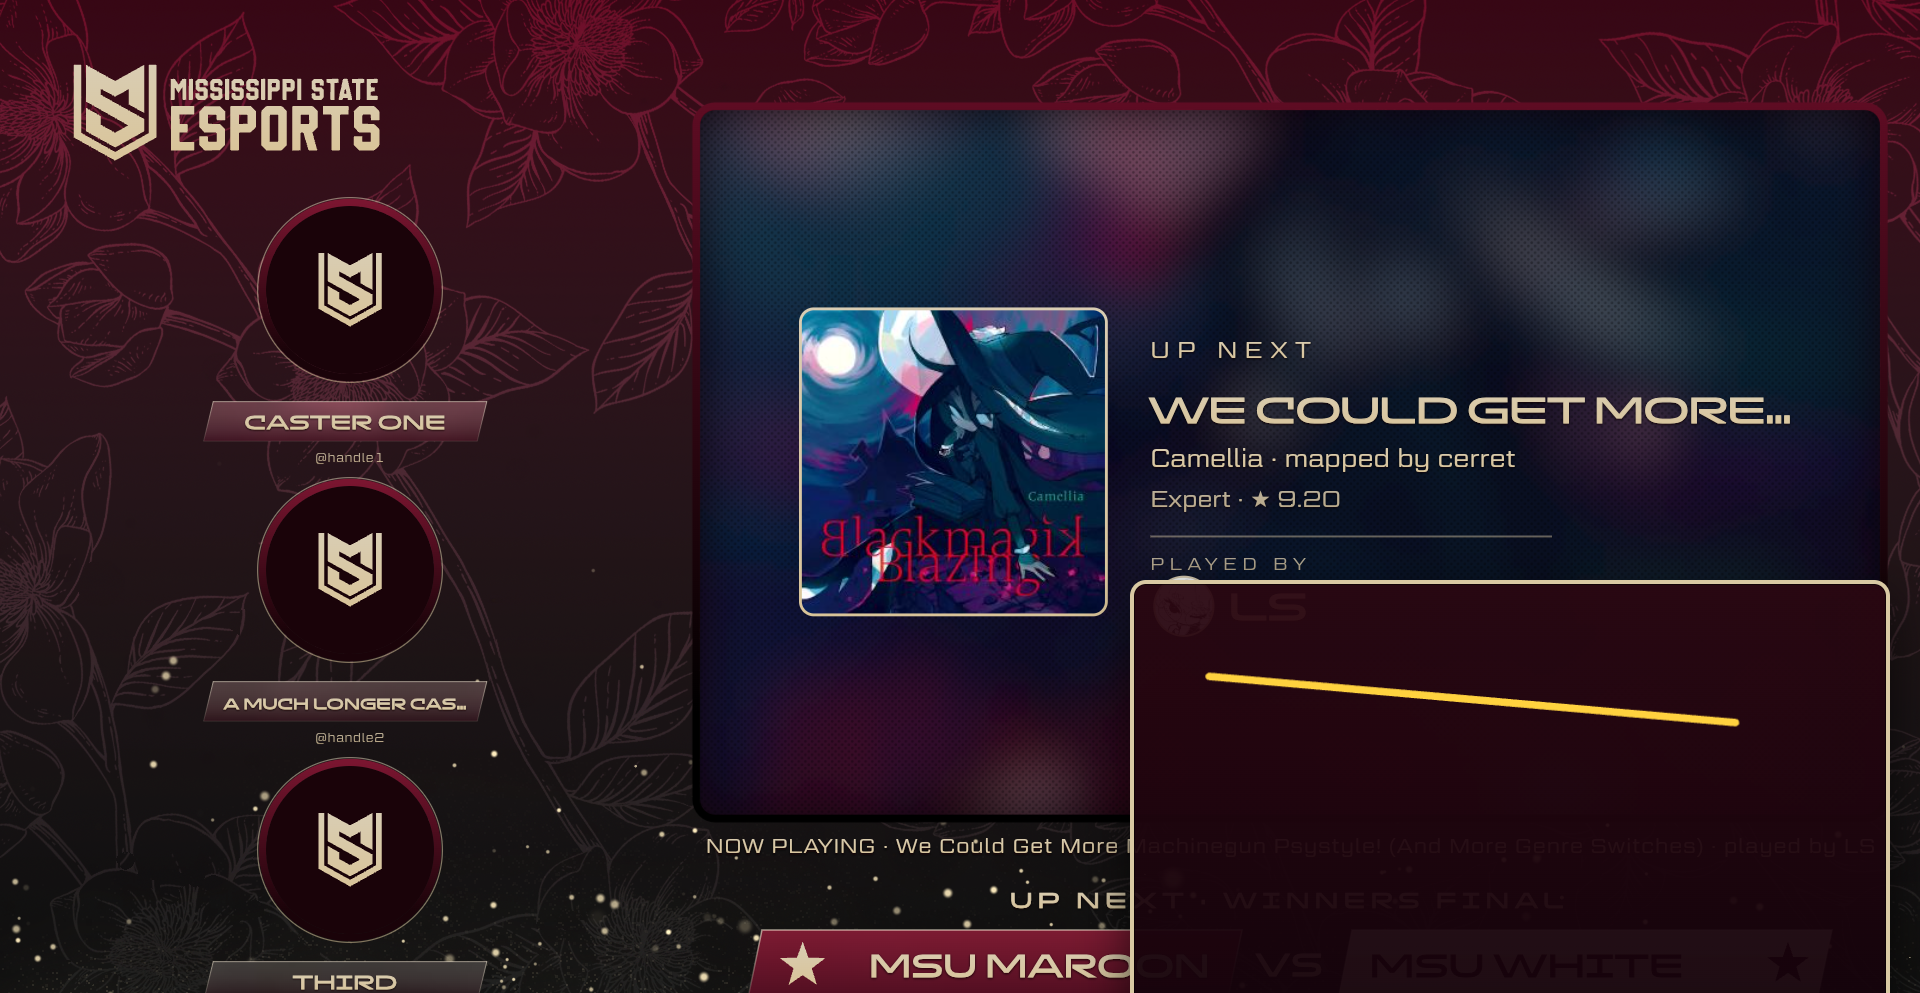
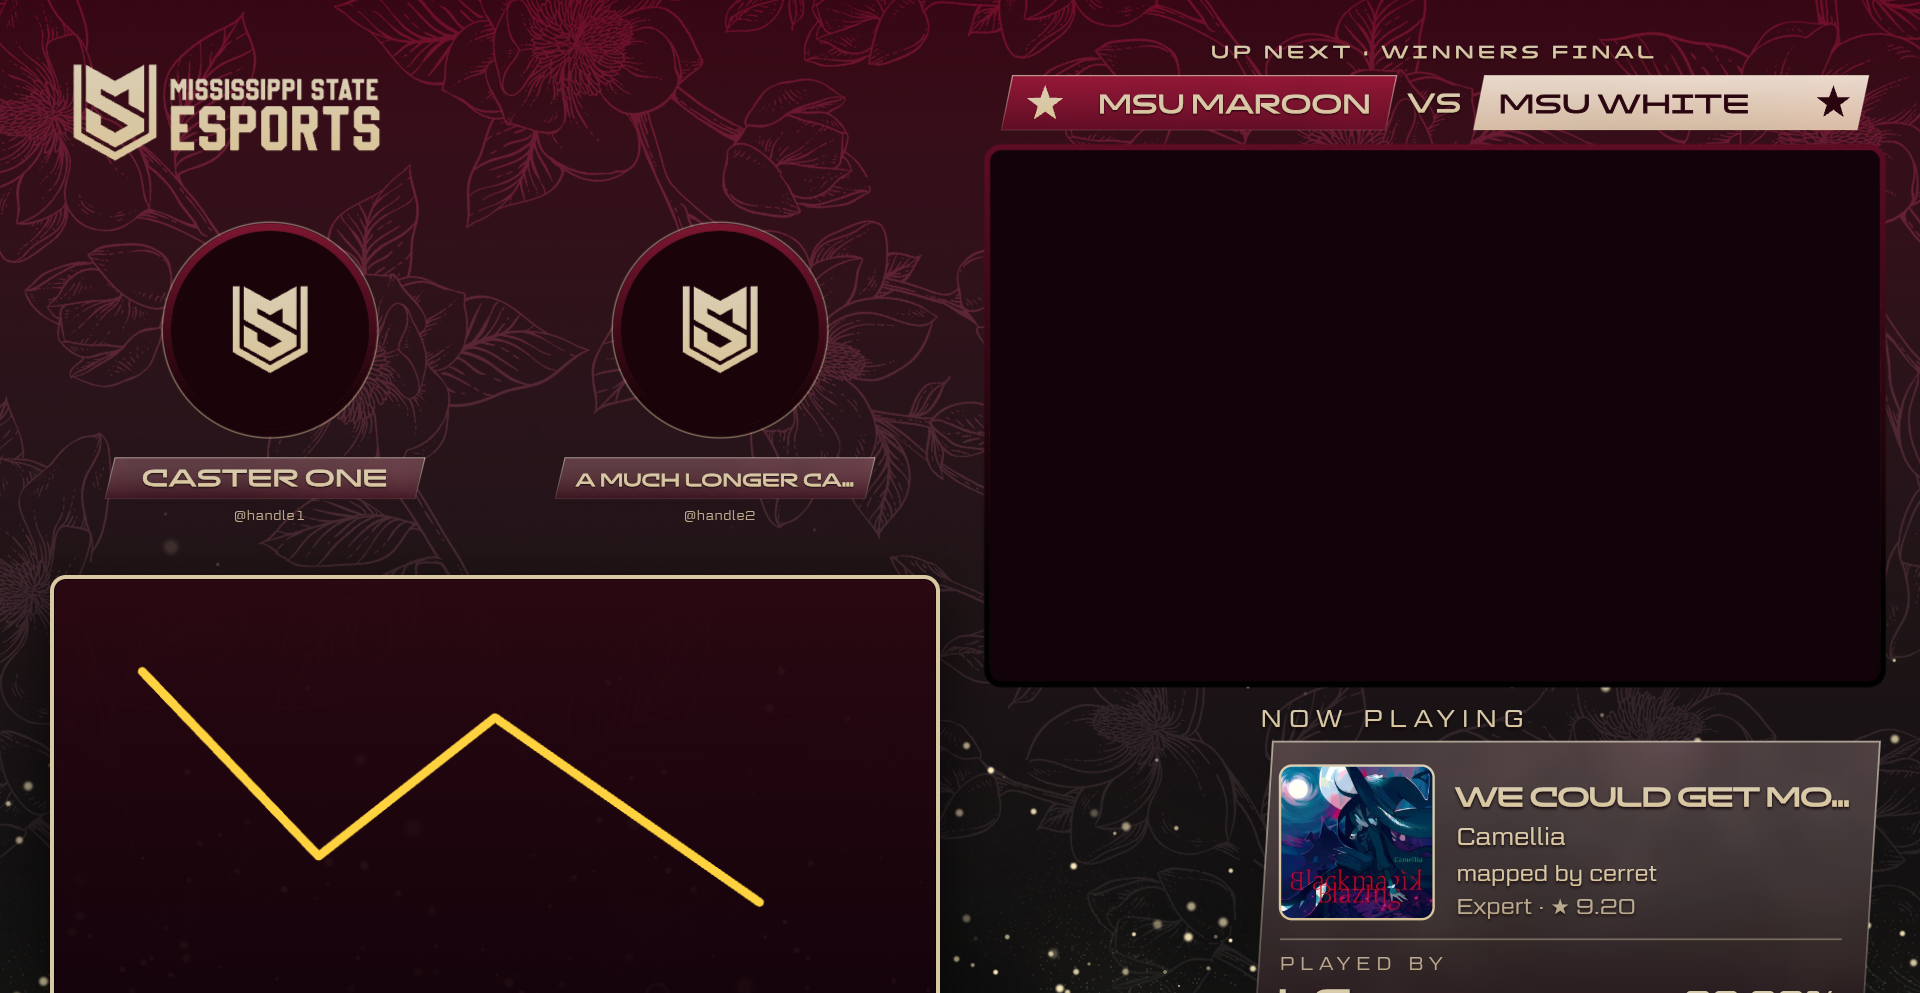
Casters: casters in one row, the whiteboard under them, the replay on the right with its now-playing card beneath

diff --git a/server/main.ts b/server/main.ts
@@ -69,11 +69,11 @@ async function loadConfig() {
 }
 await loadConfig();
 
-/** The whiteboard's place on stream: what overlay.yaml says, kept inside the picture; bottom right otherwise. */
+/** The whiteboard's place on stream: what overlay.yaml says, kept inside the picture; bottom left otherwise (under the casters). */
 function boardBox(raw: any) {
   const n = (v: unknown, d: number, lo: number, hi: number) => (Number.isFinite(Number(v)) && v !== null && v !== "" ? Math.min(hi, Math.max(lo, Number(v))) : d);
-  const width = n(raw?.width, 760, 200, 1920), height = n(raw?.height, 470, 150, 1080);
-  return { x: n(raw?.x, 1130, 0, 1920 - width), y: n(raw?.y, 580, 0, 1080 - height), width, height };
+  const width = n(raw?.width, 890, 200, 1920), height = n(raw?.height, 470, 150, 1080);
+  return { x: n(raw?.x, 50, 0, 1920 - width), y: n(raw?.y, 575, 0, 1080 - height), width, height };
 }
 async function readJson<T>(p: string, fallback: T): Promise<T> {
   try { return { ...fallback, ...JSON.parse(await Deno.readTextFile(dataAt(p))) }; } catch { return fallback; }

diff --git a/web/overlay.js b/web/overlay.js
@@ -27,7 +27,7 @@ if (params.has("bg")) document.body.classList.add("preview-bg");
 const boardEl = document.querySelector("#board");
 const whiteboard = makeBoard(boardEl.querySelector("canvas"));
 function showBoard(m) {
-  const b = m.box ?? { x: 1130, y: 580, width: 760, height: 470 }, c = boardEl.querySelector("canvas");
+  const b = m.box ?? { x: 50, y: 575, width: 890, height: 470 }, c = boardEl.querySelector("canvas");
   Object.assign(boardEl.style, { left: `${b.x}px`, top: `${b.y}px`, width: `${b.width}px`, height: `${b.height}px` });
   if (c.width !== b.width || c.height !== b.height) { c.width = b.width; c.height = b.height; }
   whiteboard.set(m.strokes);

diff --git a/web/panel.js b/web/panel.js
@@ -376,7 +376,7 @@ function boardTools() {
 }
 boardTools();
 function boardSet(m) {
-  const b = m.box ?? { width: 760, height: 470 };
+  const b = m.box ?? { width: 890, height: 470 };
   $(".board-pad").style.aspectRatio = `${b.width} / ${b.height}`;
   if (padCanvas.width !== b.width || padCanvas.height !== b.height) { padCanvas.width = b.width; padCanvas.height = b.height; }
   pad.set(m.strokes);
